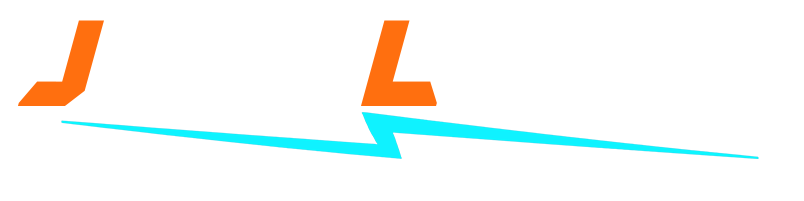
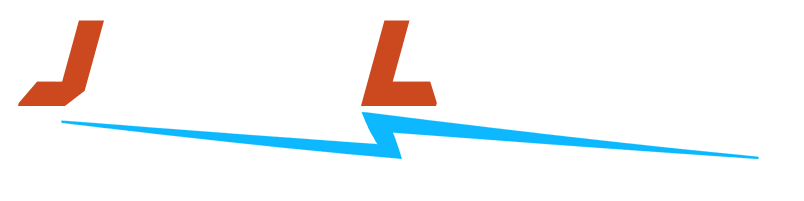
Color Tweaks

Changed region(s): [[0.0622, 0.0896, 0.9639, 0.806], [0.0, 0.0896, 0.1244, 0.5373]]

diff --git a/src/styles/components/_project.scss b/src/styles/components/_project.scss
@@ -46,7 +46,7 @@
       margin-bottom: 1rem;
       font-size: 1.4rem;
       a {
-        background: $blue-primary;
+        background: $purple-med;
         padding: 1rem 2rem;
         margin: 1rem;
         border-radius: 5px;
@@ -55,7 +55,7 @@
         text-decoration: none;
         transition: all 0.3s;
         &:hover {
-          background: $blue-med;
+          background: $blue-primary;
         }
       }
     }

diff --git a/src/styles/_colors.scss b/src/styles/_colors.scss
@@ -1,8 +1,9 @@
 $white: #fff;
 $black: #000;
-$blue-primary: #0FF2FF;
-$orange-accent: #FF6F0F;
-$blue-med: #003033;
+$blue-primary: #0DB8FF;
+$orange-accent: #CC491F;
+$purple-med: #455399;
+$blue-med: #0C1852;
 $blue-dark: #0d1321;
 $warm-grey: #d8dbe2;
 $cool-grey: #393d3f;
